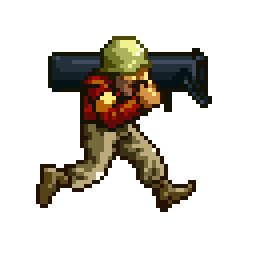
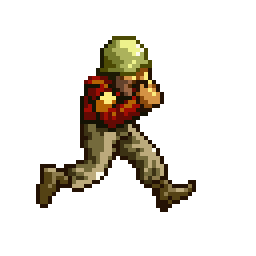
Перерисовал графику: игрок

Changed region(s): [[0.5625, 0.1875, 0.8438, 0.4375], [0.1875, 0.1875, 0.4062, 0.375]]

diff --git a/static/js/game/game.js b/static/js/game/game.js
@@ -58,6 +58,7 @@ function GameController($scope, $http, $interval)
 		var handler = this;
 		var player;
 		var mousePos;
+		var currentWeapon = 0;
 
 		for(var i = 0; i < MAP.maxPlayers; ++i)
 			players[i] = new Player(CTX, -1000, -1000);
@@ -171,13 +172,15 @@ function GameController($scope, $http, $interval)
 			for(var i = 0; i < projectiles.length; ++i)
 			{
 				projectiles[i] && CTX.drawImage(bullet, projectiles[i][0] * BLOCK_SIZE + DX, projectiles[i][1] * BLOCK_SIZE + DY);
+				c(projectiles);
 			}
+			mousePos && CTX.drawImage(aim, mousePos.x - AIM_SIZE / 2, mousePos.y - AIM_SIZE / 2, AIM_SIZE, AIM_SIZE);
 			requestAnimFrame(handler.draw);
-			//mousePos && CTX.drawImage(aim, mousePos.x - AIM_SIZE / 2, mousePos.y - AIM_SIZE / 2, AIM_SIZE, AIM_SIZE); //todo: aim
 		}
 
 		// MOUSE events
-		this.getMousePos = function(canvas, evt) {
+		this.getMousePos = function(canvas, evt)
+		{
 			var rect = canvas.getBoundingClientRect();
 			return {
 				x: evt.clientX - rect.left,
@@ -185,15 +188,16 @@ function GameController($scope, $http, $interval)
 			};
 		}
 
-		/*canvas.addEventListener('mousemove', function(evt) // todo: aim
+		canvas.addEventListener('mousemove', function(evt)
 		{
 			mousePos = handler.getMousePos(canvas, evt);
-		}, true);*/
+		}, true);
 
 		canvas.addEventListener('mousedown', function(evt)
 		{
 			mousePos = handler.getMousePos(canvas, evt);
-			ws.send(JSON.stringify(
+			var dd;
+			ws.send(dd = JSON.stringify(
 			{
 				'action': 'fire',
 				'params':
@@ -203,6 +207,7 @@ function GameController($scope, $http, $interval)
 					'dy': (mousePos.y - DY) / BLOCK_SIZE
 				}
 			}));
+			c(dd);
 		}, true);
 
 		// DOWN keys
